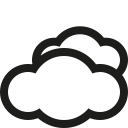
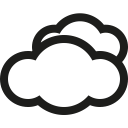
更新
1.新聞列表改成常見的卡片式資料
2.刪去重複的資訊
3.調整整體配色

diff --git a/js/newsData.js b/js/newsData.js
@@ -57,7 +57,8 @@ fetch(uri, {
         if(news.category=='政治'){
             $('.newsList > ul').append(
                 '<li class="newsContent newsPolitics" style="display:none;">'+
-                '<p><span class="classTitle">政治</span></p>'+
+                '<div class="listPic">'+'<img src='+news.img+'>'+'</div>'+
+                '<div class="listTitle">'+
                 '<h2>'+news.title+'</h2>'+
                 '<p class="onTime"><span>'+
                 news.date+
@@ -67,6 +68,7 @@ fetch(uri, {
                 '<div class="newsContent">'+
                 '<p>'+news.date+'</p>'+
                 news.content+'</div>'+
+                '</div>'+
                 '</div>'+
                 '</li>'
             );
@@ -74,7 +76,8 @@ fetch(uri, {
         else if(news.category=='娛樂'){
             $('.newsList > ul').append(
                 '<li class="newsContent newsEntertainment" style="display:none;">'+
-                '<p><span class="classTitle">娛樂</span></p>'+
+                '<div class="listPic">'+'<img src='+news.img+'>'+'</div>'+
+                '<div class="listTitle">'+
                 '<h2>'+news.title+'</h2>'+
                 '<p class="onTime"><span>'+
                 news.date+
@@ -84,6 +87,8 @@ fetch(uri, {
                 '<div class="newsContent">'+
                 '<p>'+news.date+'</p>'+
                 news.content+'</div>'+
+                '</div>'+
+                '</div>'+
                 '</div>'+
                 '</li>'
             );
@@ -91,7 +96,8 @@ fetch(uri, {
         else if(news.category=='生活'){
             $('.newsList > ul').append(
                 '<li class="newsContent newsLive" style="display:none;">'+
-                '<p><span class="classTitle">生活</span></p>'+
+                '<div class="listPic">'+'<img src='+news.img+'>'+'</div>'+
+                '<div class="listTitle">'+
                 '<h2>'+news.title+'</h2>'+
                 '<p class="onTime"><span>'+
                 news.date+
@@ -101,6 +107,7 @@ fetch(uri, {
                 '<div class="newsContent">'+
                 '<p>'+news.date+'</p>'+
                 news.content+'</div>'+
+                '</div>'+
                 '</div>'+
                 '</li>'
             );
@@ -108,7 +115,8 @@ fetch(uri, {
         else if(news.category=='房產'){
             $('.newsList > ul').append(
                 '<li class="newsContent newsHouse" style="display:none;">'+
-                '<p><span class="classTitle">房產</span></p>'+
+                '<div class="listPic">'+'<img src='+news.img+'>'+'</div>'+
+                '<div class="listTitle">'+
                 '<h2>'+news.title+'</h2>'+
                 '<p class="onTime"><span>'+
                 news.date+
@@ -118,6 +126,7 @@ fetch(uri, {
                 '<div class="newsContent">'+
                 '<p>'+news.date+'</p>'+
                 news.content+'</div>'+
+                '</div>'+
                 '</div>'+
                 '</li>'
             );
@@ -125,41 +134,8 @@ fetch(uri, {
         else if(news.category=='社會'){
             $('.newsList > ul').append(
                 '<li class="newsContent newsSociety" style="display:none;">'+
-                '<p><span class="classTitle">社會</span></p>'+
-                '<h2>'+news.title+'</h2>'+
-                '<p class="onTime"><span>'+
-                news.date+
-                '</span></p>'+
-                '<div style="display:none;">'+
-                '<img src='+news.img+'>'+
-                news.content+
-                '<div class="newsContent">'+
-                '<p>'+news.date+'</p>'+
-                news.content+'</div>'+
-                '</li>'
-            );
-        }
-        else if(news.category=='國際'){
-            $('.newsList > ul').append(
-                '<li class="newsContent newsGlobal">'+
-                '<p><span class="classTitle">國際</span></p>'+
-                '<h2>'+news.title+'</h2>'+
-                '<p class="onTime"><span>'+
-                news.date+
-                '</span></p>'+
-                '<div style="display:none;">'+
-                '<img src='+news.img+'>'+
-                news.content+
-                '<div class="newsContent">'+
-                '<p>'+news.date+'</p>'+
-                news.content+'</div>'+
-                '</li>'
-            );
-        }
-        else if(news.category=='運動'){
-            $('.newsList > ul').append(
-                '<li class="newsContent newsSport" style="display:none;">'+
-                '<p><span class="classTitle">體育</span></p>'+
+                '<div class="listPic">'+'<img src='+news.img+'>'+'</div>'+
+                '<div class="listTitle">'+
                 '<h2>'+news.title+'</h2>'+
                 '<p class="onTime"><span>'+
                 news.date+
@@ -170,15 +146,16 @@ fetch(uri, {
                 '<p>'+news.date+'</p>'+
                 news.content+'</div>'+
                 '</div>'+
+                '</div>'+
                 '</li>'
             );
         }
-        else if(news.category=='地方'){
+        else if(news.category=='國際'){
             $('.newsList > ul').append(
-                '<li class="newsContent newsGossiping" style="display:none;">'+
-                '<p><span class="classTitle">地方</span></p>'+
+                '<li class="newsContent newsGlobal">'+
+                '<div class="listPic">'+'<img src='+news.img+'>'+'</div>'+
+                '<div class="listTitle">'+
                 '<h2>'+news.title+'</h2>'+
-                '</a>'+
                 '<p class="onTime"><span>'+
                 news.date+
                 '</span></p>'+
@@ -187,6 +164,45 @@ fetch(uri, {
                 '<div class="newsContent">'+
                 '<p>'+news.date+'</p>'+
                 news.content+'</div>'+
+                '</div>'+
+                '</div>'+
+                '</li>'
+            );
+        }
+        else if(news.category=='運動'){
+            $('.newsList > ul').append(
+                '<li class="newsContent newsSport" style="display:none;">'+
+                '<div class="listPic">'+'<img src='+news.img+'>'+'</div>'+
+                '<div class="listTitle">'+
+                '<h2>'+news.title+'</h2>'+
+                '<p class="onTime"><span>'+
+                news.date+
+                '</span></p>'+
+                '<div style="display:none;">'+
+                '<img src='+news.img+'>'+
+                '<div class="newsContent">'+
+                '<p>'+news.date+'</p>'+
+                news.content+'</div>'+
+                '</div>'+
+                '</div>'+
+                '</li>'
+            );
+        }
+        else if(news.category=='地方'){
+            $('.newsList > ul').append(
+                '<li class="newsContent newsGossiping" style="display:none;">'+
+                '<div class="listPic">'+'<img src='+news.img+'>'+'</div>'+
+                '<div class="listTitle">'+
+                '<h2>'+news.title+'</h2>'+
+                '<p class="onTime"><span>'+
+                news.date+
+                '</span></p>'+
+                '<div style="display:none;">'+
+                '<img src='+news.img+'>'+
+                '<div class="newsContent">'+
+                '<p>'+news.date+'</p>'+
+                news.content+'</div>'+
+                '</div>'+
                 '</div>'+
                 '</li>'
             );

diff --git a/css/style_jonews.css b/css/style_jonews.css
@@ -297,14 +297,21 @@
             -o-transition:1s;
         }
         .newsContent{
-            width:95%;
-            height:90px;
+            width: 95%;
+            height: 170px;
             margin-top: 2%;
             background: rgba(255, 255, 255, 0.4);
             box-shadow: 1px 1px 9px #dadada;
             display: flex;
             flex-direction: column;
-            justify-content: space-around;
+            border-radius: 10px;
+            overflow: hidden;
+        }
+        .listTitle{
+            color: #fff;
+            font-weight: bold;
+            font-size: 18px;
+            text-shadow: 1px 3px 10px #000;
         }
         .newsContent > p:nth-child(1){
             margin-top:6px;
@@ -314,8 +321,11 @@
             overflow: hidden;
             text-overflow: ellipsis;
             white-space: nowrap;
-            width: 320px;
-            margin-left: 3%;
+            height: 15px;
+            margin-top: -55px;
+            padding: 10px;
+            font-size: 18px;
+            background: rgba(0,0,0,0.3);
         }
         .newsContent a{
             text-decoration: none;
@@ -325,6 +335,12 @@
             width: 320px;
             margin-left: 3%;
             color: #7d7d7d;
+        }
+        .onTime{
+            font-size: 12px;
+            background: rgba(0,0,0,0.3);
+            padding-left: 3%;
+            padding-bottom: 2%;
         }
         .newsContent > p{
             display: flex;
@@ -353,16 +369,19 @@
             width: 95%;
             height: 90px;
             margin:0 auto;
-            background: rgba(185, 186, 163, 0.3);
+            border-radius: 10px;
+            color: #fff;
+            background: #16222c;
             box-shadow: 1px 1px 9px #dadada;
         }
         select.fieldInf{
-            background: #3e3e3e;
+            background: #3E505B;
             border-radius: 10px;
-            color: #dadada;
-            padding-left: 10px;
-            padding-right: 10px;
-            height: 30px;
+            color: #8AB0AB;
+            padding-left: 15px;
+            padding-right: 15px;
+            height: 25px;
+            border: 1px solid #4f6471;
         }
         .chanceNow span{
             font-size: 25px;
@@ -375,6 +394,9 @@
         }
         .temperRange span {
             font-size: 17px;
+        }
+        .temperRange span i{
+            margin-left:10px;
         }
         .newsList{
             height: 100%;
@@ -399,15 +421,6 @@
             font-size: 14px;
             border-radius: 5px;
         }
-        .newsPolitics > p > span.classTitle{background:#363636;}
-        .newsSport > p > span.classTitle {background: #808f90;}
-        .newsGossiping > p > span.classTitle{background:#d6751a;}
-        .newsEntertainment > p > span.classTitle{background:#5909a3;}
-        .newsGlobal > p > span.classTitle {background:#3f669e;}
-        .newsHouse > p > span.classTitle{background:#dcaa54;}
-        .newsSociety > p > span.classTitle{background:#4e9440;}
-        .newsFocus > p > span.classTitle{background:#c34b4b;}
-
         span.newslink {
             width: 25px;
             height: 25px;
@@ -431,7 +444,14 @@
             background-size: cover!important;
             background-repeat: no-repeat!important;
         }
-        
+        .listPic{
+            height: 170px;
+            overflow: hidden;
+        }
+        .listPic img{         
+            width:100%;
+        }
+
         .newsText p{
             padding-top: 15px;
             padding-left: 2%;

diff --git a/css/weatherInf.css b/css/weatherInf.css
@@ -120,13 +120,26 @@ day1:多雲時晴
 day2:多雲
 day3:下雨
 */
-.day1{background: url(../img/day1.png)no-repeat;}
-.day2{background: url(../img/day2.png)no-repeat;}
-.day3{background: url(../img/day3.png)no-repeat;}
-.day1,.day2,.day3{
+.day1,.detailDay1,.index-day1{background: url(../img/day1a.png)no-repeat;}
+.day2,.detailDay2,.index-day2{background: url(../img/day2a.png)no-repeat;}
+.day3,.detailDay3,.index-day3{background: url(../img/day3a.png)no-repeat;}
+.day4,.detailDay4,.index-day4{background: url(../img/day4a.png)no-repeat;}
+
+.day1,.day2,.day3,.day4{
     width: 55px;
     height: 55px;
     margin: 2px;
+    display: block;
+    background-size: contain;
+}
+
+.index-day1,
+.index-day2,
+.index-day3,
+.index-day4{
+    width: 45%;
+    height: auto;
+    margin-top: 10px;
     display: block;
     background-size: contain;
 }
@@ -290,34 +303,18 @@ day3:下雨
     .weatherIcon > p{
         width:10px;
     }
+   
     /*
     day1:多雲時晴
     day2:多雲
     day3:下雨
     */
-    /* .day1{background: url(../img/day1.png)no-repeat;}
-    .day2{background: url(../img/day2.png)no-repeat;}
-    .day3{background: url(../img/day3.png)no-repeat;}
+    .day1,.detailDay1,.index-day1{background: url(../img/day1a.png)no-repeat;}
+    .day2,.detailDay2,.index-day2{background: url(../img/day2a.png)no-repeat;}
+    .day3,.detailDay3,.index-day3{background: url(../img/day3a.png)no-repeat;}
+    .day4,.detailDay4,.index-day4{background: url(../img/day4a.png)no-repeat;}
     
-    .day1,.day2,.day3{
-        width: 55px;
-        height: 55px;
-        margin: 2px;
-        display: block;
-        background-size: contain;
-    } */
-    
-    /*
-    day1:多雲時晴
-    day2:多雲
-    day3:下雨
-    */
-    .day1,.detailDay1,.index-day1{background: url(../img/day1.png)no-repeat;}
-    .day2,.detailDay2,.index-day2{background: url(../img/day2.png)no-repeat;}
-    .day3,.detailDay3,.index-day3{background: url(../img/day3.png)no-repeat;}
-    .day4,.detailDay4,.index-day4{background: url(../img/day4.png)no-repeat;}
-    
-    .day1,.day2,.day3{
+    .day1,.day2,.day3,.day4{
         width: 55px;
         height: 55px;
         margin: 2px;
@@ -509,12 +506,12 @@ day3:下雨
     day2:多雲
     day3:下雨
     */
-    .day1,.detailDay1,.index-day1{background: url(../img/day1.png)no-repeat;}
-    .day2,.detailDay2,.index-day2{background: url(../img/day2.png)no-repeat;}
-    .day3,.detailDay3,.index-day3{background: url(../img/day3.png)no-repeat;}
-    .day4,.detailDay4,.index-day4{background: url(../img/day4.png)no-repeat;}
+    .day1,.detailDay1,.index-day1{background: url(../img/day1a.png)no-repeat;}
+    .day2,.detailDay2,.index-day2{background: url(../img/day2a.png)no-repeat;}
+    .day3,.detailDay3,.index-day3{background: url(../img/day3a.png)no-repeat;}
+    .day4,.detailDay4,.index-day4{background: url(../img/day4a.png)no-repeat;}
     
-    .day1,.day2,.day3{
+    .day1,.day2,.day3,.day4{
         width: 55px;
         height: 55px;
         margin: 2px;
